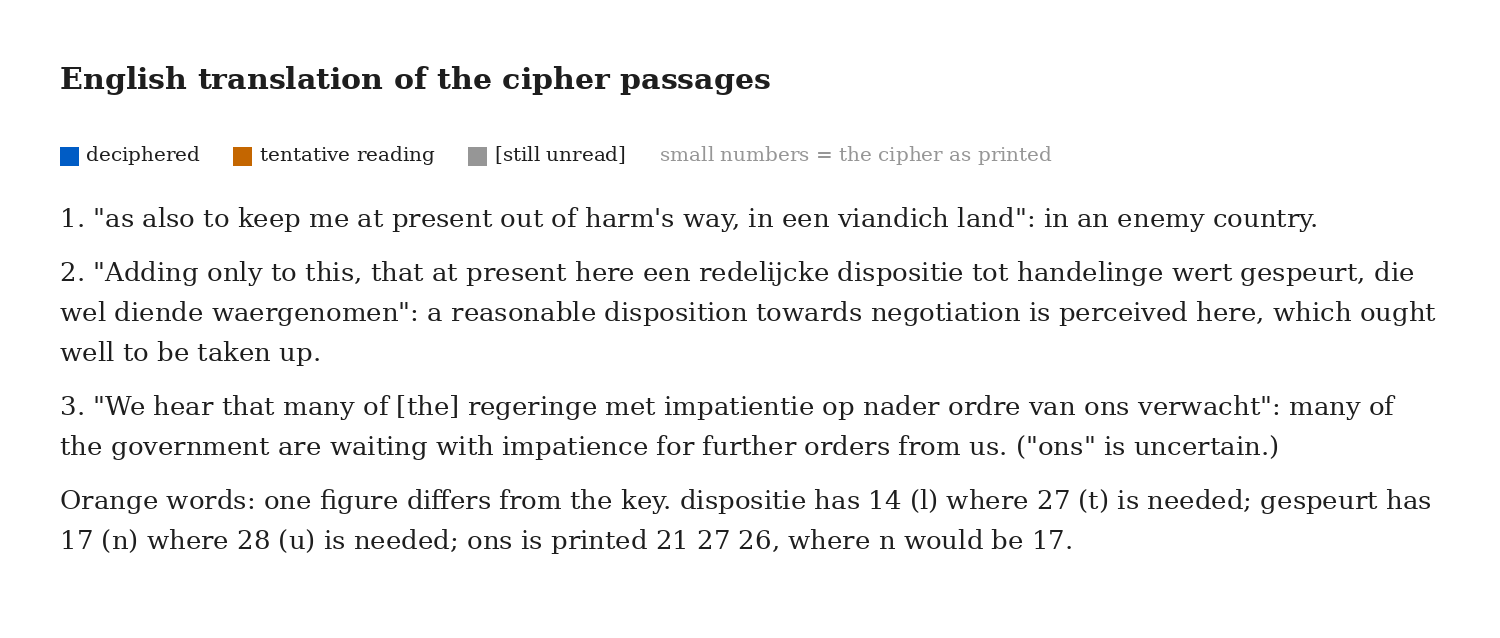
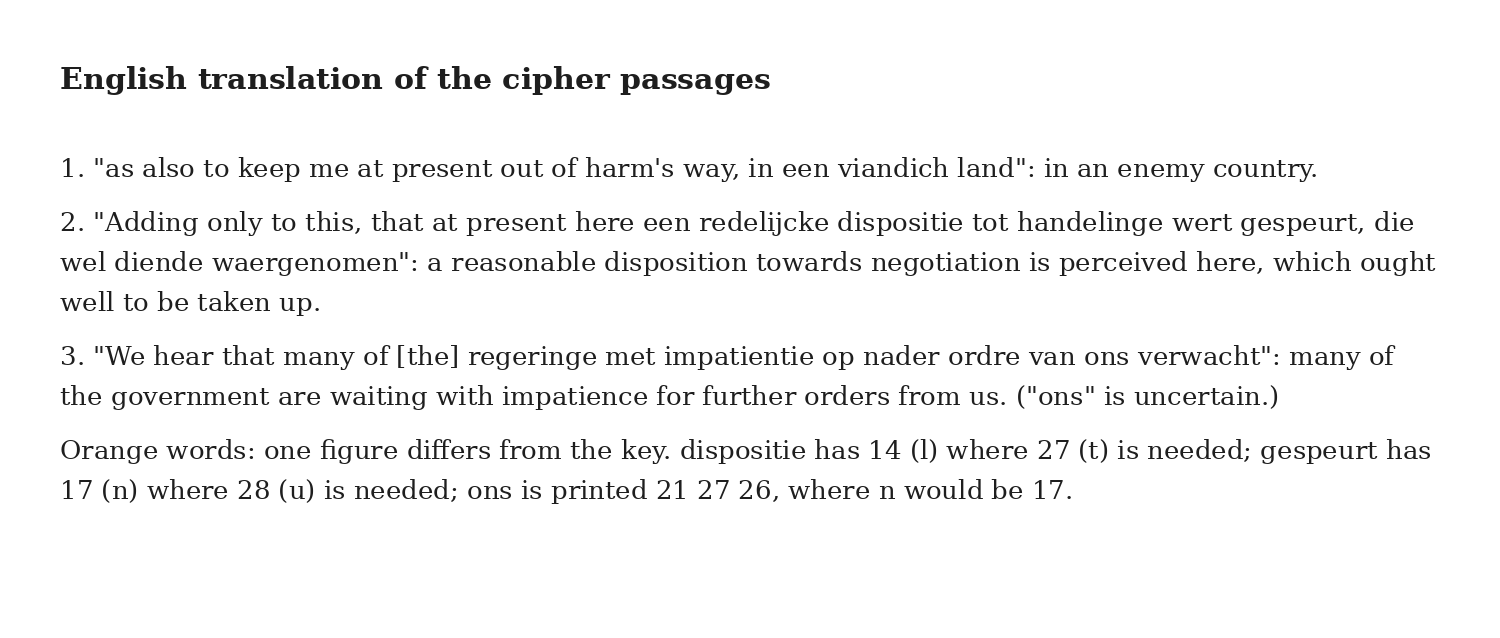
Drop the colour legend from the translation image
Claude-Session: https://claude.ai/code/session_014JUeTwsrbxcxZExuWeofEG

diff --git a/vandeperre-1653/scripts/render_letters.py b/vandeperre-1653/scripts/render_letters.py
@@ -72,11 +72,15 @@ def render(title, paragraphs, path):
     if ref:
         d.text((MARGIN, MARGIN + 42), "(" + ref, font=f_leg, fill=COL["u"])
     y, lx = MARGIN + 82, MARGIN
-    for k, lab in (("d", "deciphered"), ("t", "tentative reading"), ("u", "[still unread]")):
+    marked = any("{" in par for par in paragraphs)
+    for k, lab in ([] if not marked else  (("d", "deciphered"), ("t", "tentative reading"), ("u", "[still unread]"))):
         d.rectangle((lx, y + 5, lx + 18, y + 23), fill=COL[k]); lx += 26
         d.text((lx, y), lab, font=f_leg, fill=COL["p"]); lx += d.textlength(lab, font=f_leg) + 34
-    d.text((lx, y), "small numbers = the cipher as printed", font=f_leg, fill=COL["u"])
-    y += 60
+    if marked:
+        d.text((lx, y), "small numbers = the cipher as printed", font=f_leg, fill=COL["u"])
+        y += 60
+    else:
+        y += 10
     for ln in lines:
         if ln is None:
             y += 14; continue

diff --git a/walters-1656/scripts/render_letters.py b/walters-1656/scripts/render_letters.py
@@ -72,11 +72,15 @@ def render(title, paragraphs, path):
     if ref:
         d.text((MARGIN, MARGIN + 42), "(" + ref, font=f_leg, fill=COL["u"])
     y, lx = MARGIN + 82, MARGIN
-    for k, lab in (("d", "deciphered"), ("t", "tentative reading"), ("u", "[still unread]")):
+    marked = any("{" in par for par in paragraphs)
+    for k, lab in ([] if not marked else  (("d", "deciphered"), ("t", "tentative reading"), ("u", "[still unread]"))):
         d.rectangle((lx, y + 5, lx + 18, y + 23), fill=COL[k]); lx += 26
         d.text((lx, y), lab, font=f_leg, fill=COL["p"]); lx += d.textlength(lab, font=f_leg) + 34
-    d.text((lx, y), "small numbers = the cipher as printed", font=f_leg, fill=COL["u"])
-    y += 60
+    if marked:
+        d.text((lx, y), "small numbers = the cipher as printed", font=f_leg, fill=COL["u"])
+        y += 60
+    else:
+        y += 10
     for ln in lines:
         if ln is None:
             y += 14; continue
